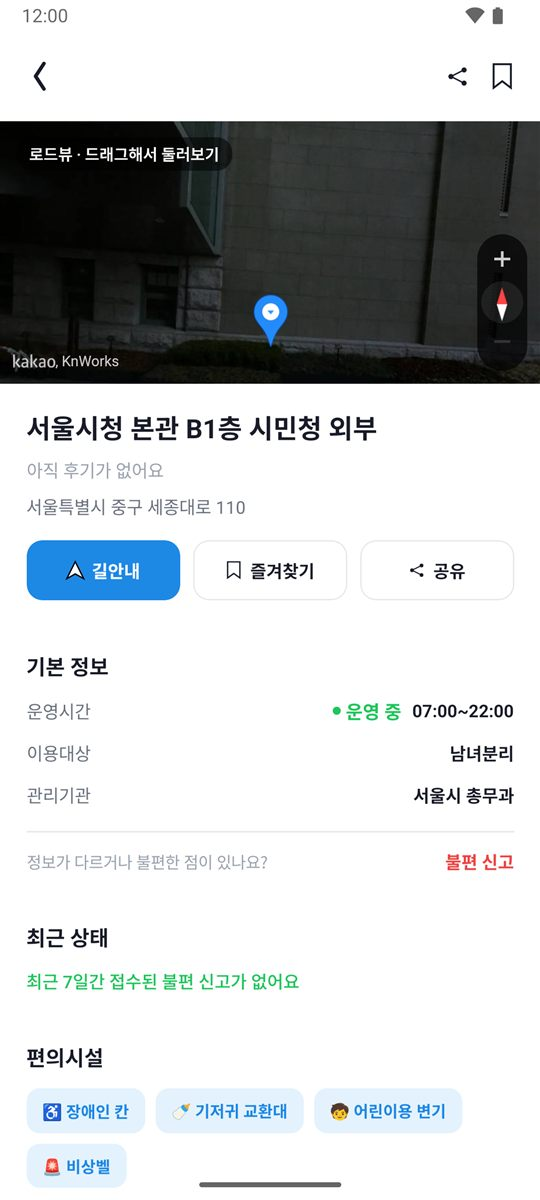
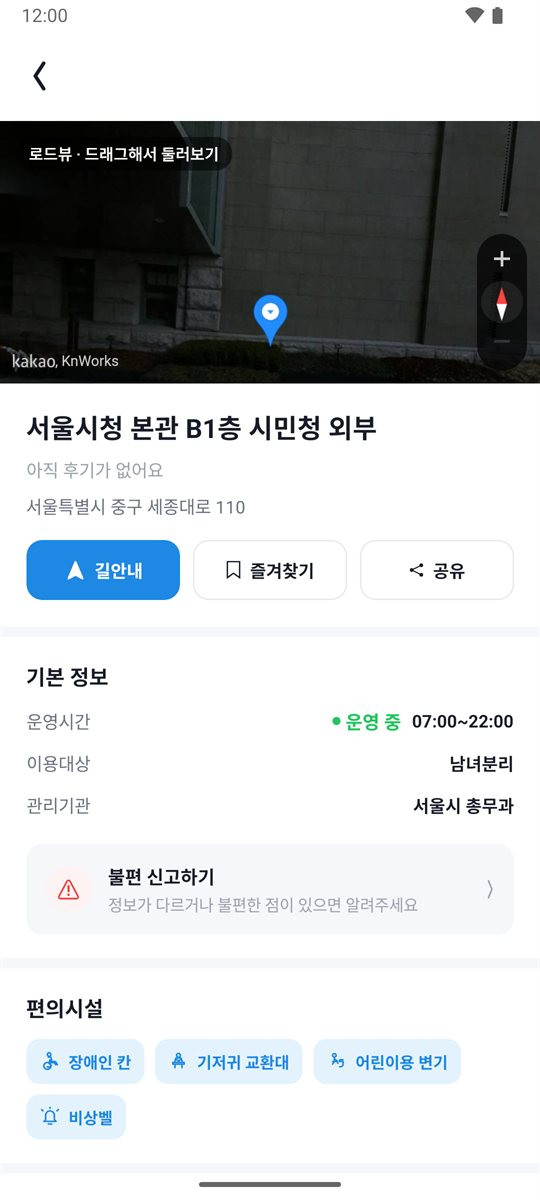
사이트: 바뀐 앱 화면으로 스크린샷 교체 (지도·검색·상세)

diff --git a/index.html b/index.html
@@ -218,7 +218,7 @@
         <div class="phone"><img src="./img/map.jpg" alt="화장실나우 지도 화면: 서울시청 주변 화장실이 지도와 목록으로 표시됨" /></div>
         <div class="float-card" aria-hidden="true">
           <div class="ico">🚻</div>
-          <div><b>시청역 1호선 화장실</b><span class="dot">● 운영 중</span> · 150m</div>
+          <div><b>시청역 1호선 화장실</b><span class="dot">● 운영 중</span> · 130m</div>
         </div>
       </div>
     </div>
@@ -279,7 +279,7 @@
           <p>장소나 지하철역 이름으로 검색하고, 필요한 편의시설로 걸러 보세요. 휠체어 이용자, 아이와 함께인 보호자 모두 맞는 곳을 빠르게 찾을 수 있어요.</p>
           <div class="chips"><span>24시간</span><span>장애인 시설</span><span>기저귀 교환대</span><span>남녀 분리</span><span>CCTV</span><span>손 건조기</span></div>
         </div>
-        <div class="phone"><img src="./img/search.jpg" alt="검색 화면: 장애인 시설 필터 적용" loading="lazy" /></div>
+        <div class="phone"><img src="./img/search.jpg" alt="검색 화면: 장애인 시설·기저귀 교환대 필터를 함께 적용" loading="lazy" /></div>
       </div>
 
       <div class="feature reveal">
